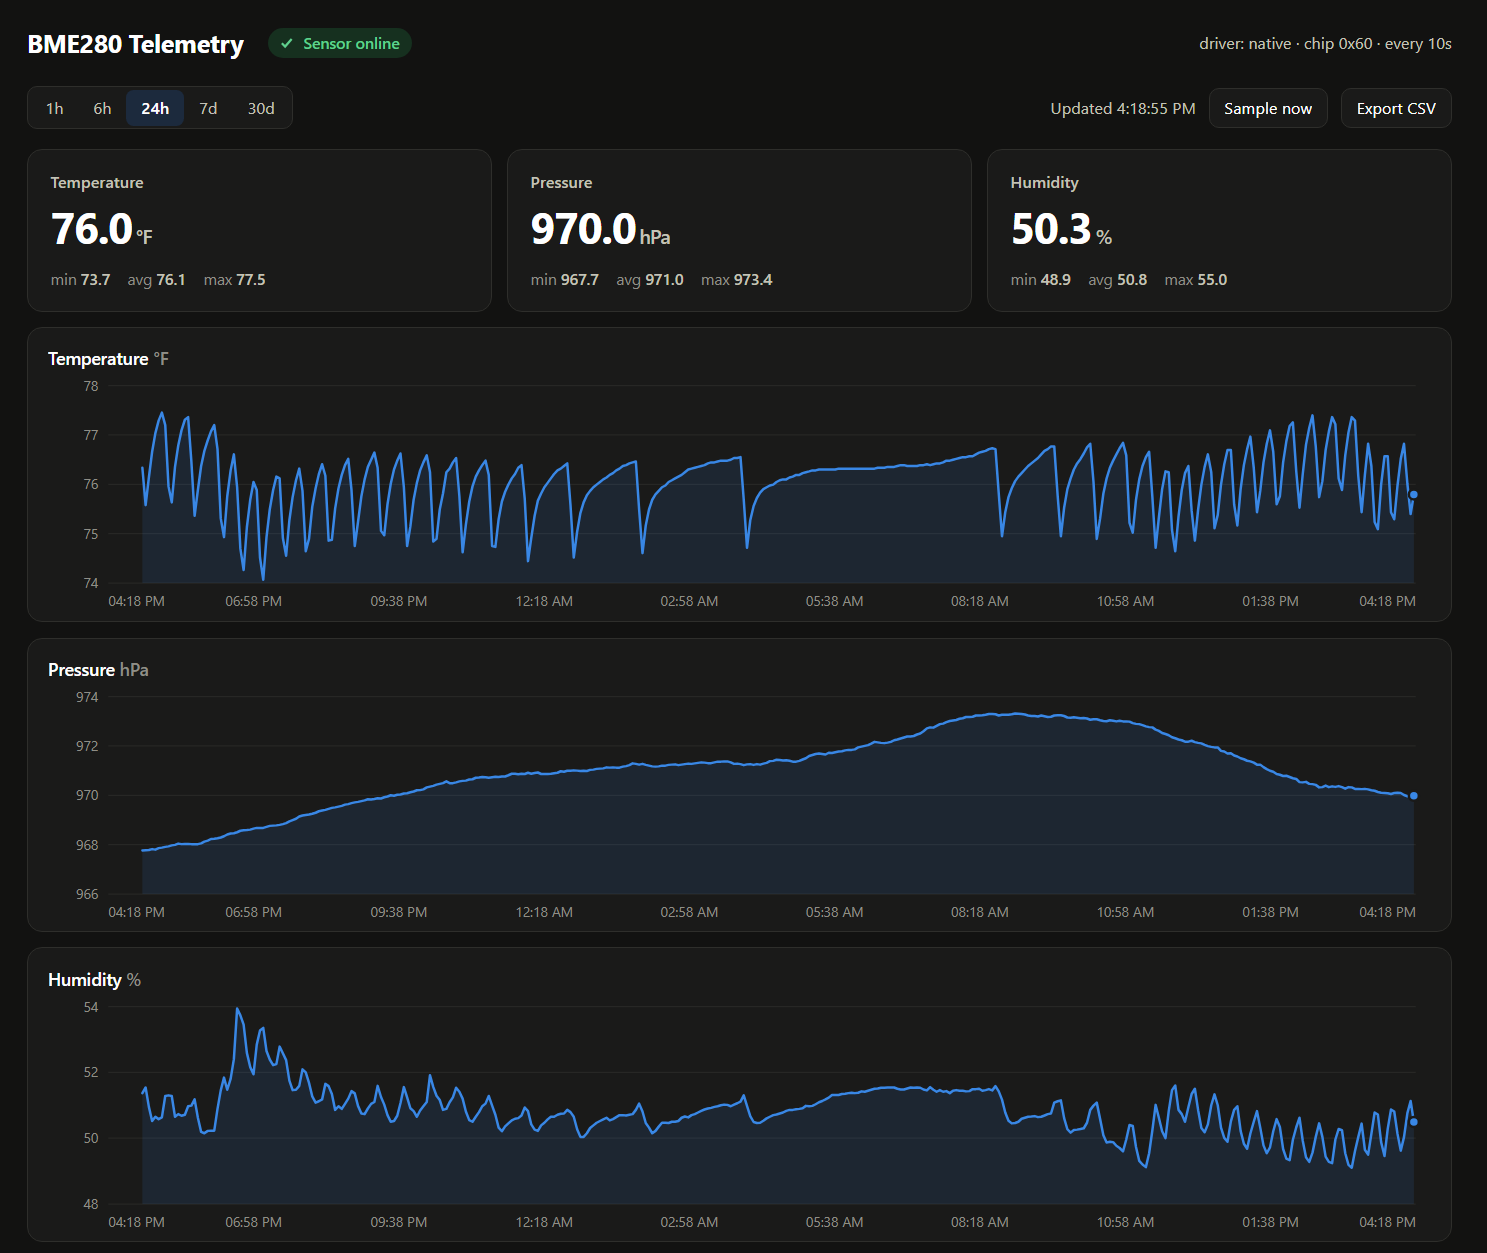
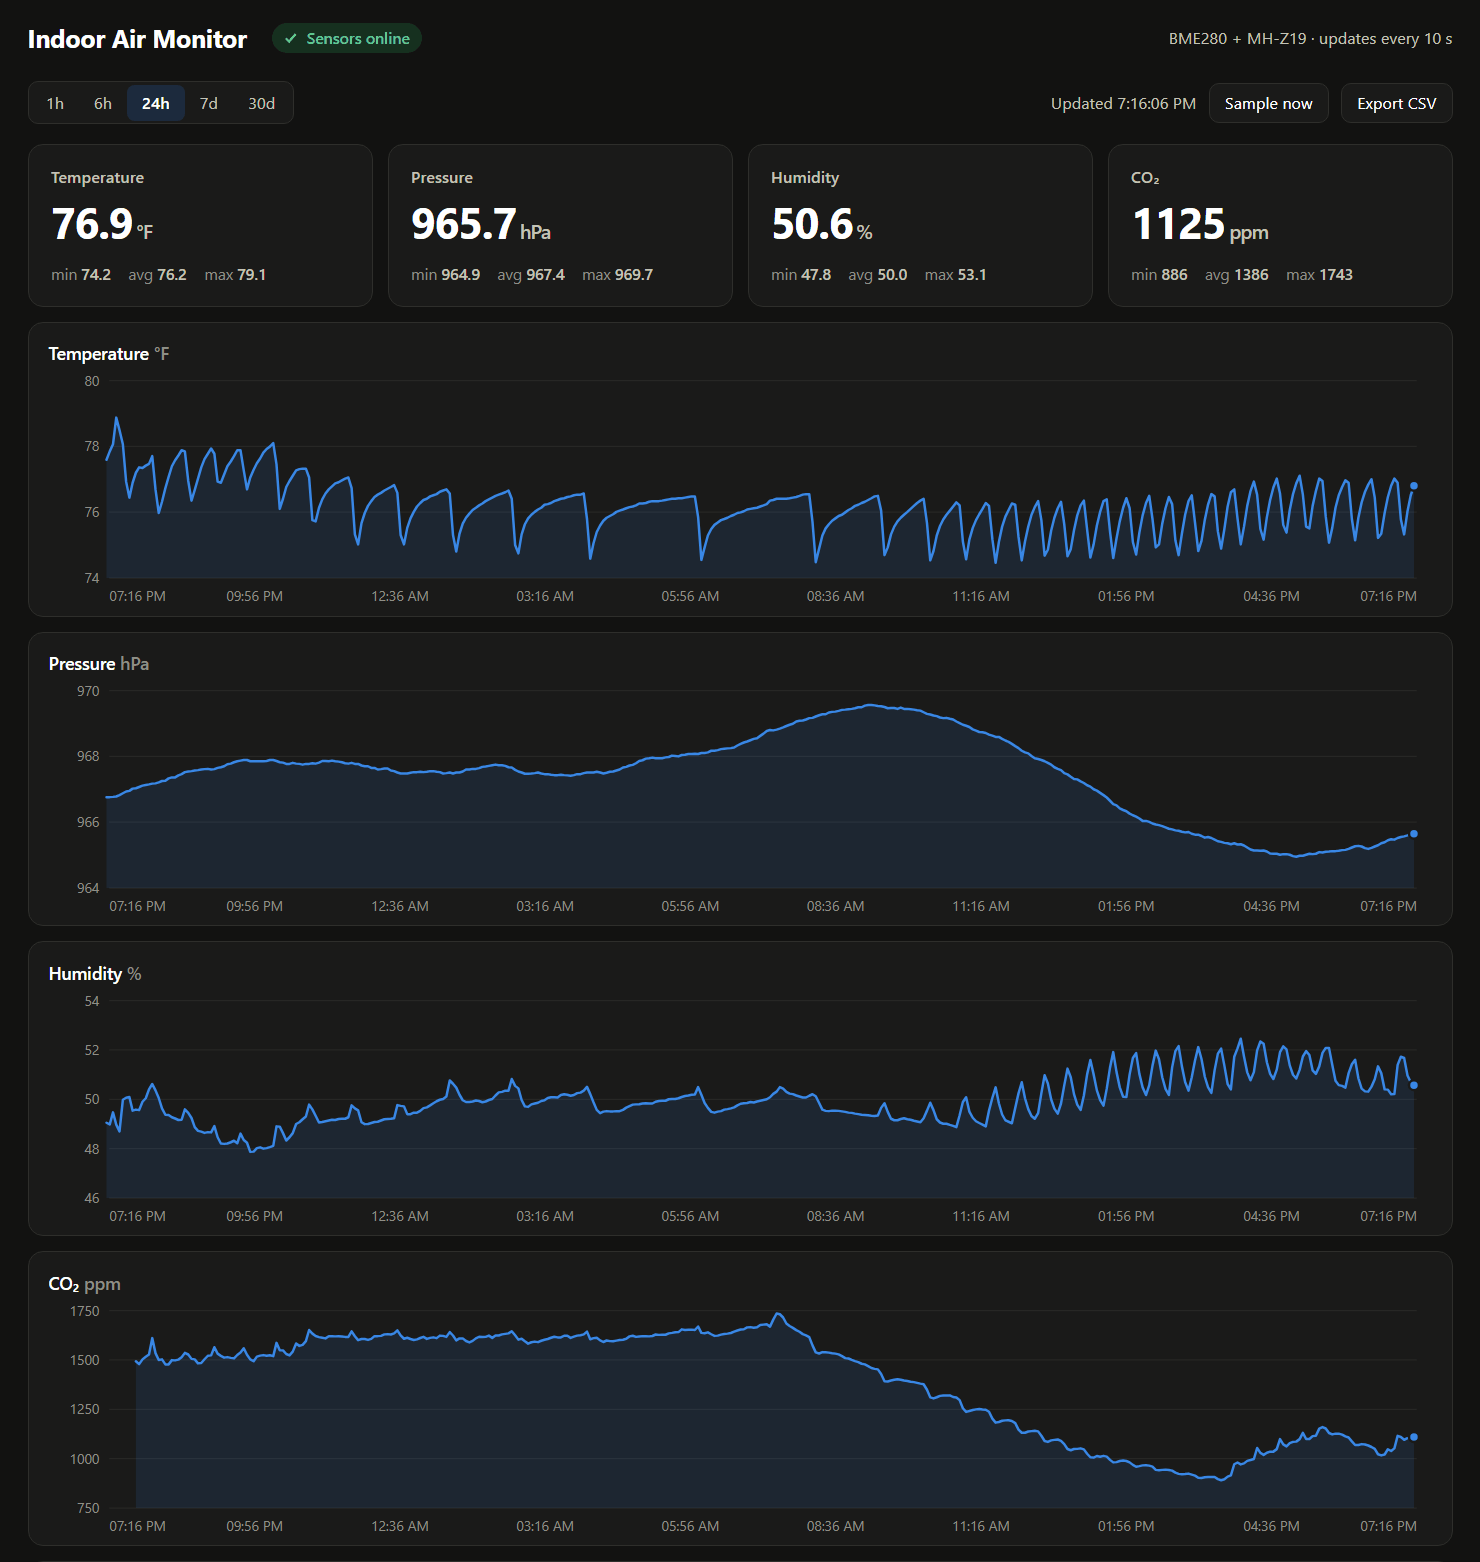
Update screenshot, hardware photo and README for the CO2 sensor

diff --git a/README.md b/README.md
@@ -2,9 +2,9 @@
 
 [![CI](https://github.com/AlexT01010100/pi-air-monitor/actions/workflows/ci.yml/badge.svg)](https://github.com/AlexT01010100/pi-air-monitor/actions/workflows/ci.yml)
 
-Raspberry Pi 5 + Adafruit BME280 (SPI) + MH-Z19 CO₂ sensor (UART) → FastAPI service → Postgres → web dashboard.
+Raspberry Pi 5 + BME280 (SPI) and MH-Z19 CO₂ (UART) sensors → C drivers → FastAPI service → Postgres → web dashboard.
 
-![Live dashboard showing temperature, pressure and humidity from the sensor](docs/dashboard.png)
+![Live dashboard showing 24 hours of temperature, pressure, humidity and CO₂ readings](docs/dashboard.png)
 
 ```mermaid
 flowchart LR
@@ -32,7 +32,7 @@ mhz19_uart.c / mhz19.h    C driver (UART/termios, framing, checksum, timeouts)
 tests/                     C unit tests for both drivers (make test)
 service/
   app/driver.py            ctypes bindings + mock sensors
-  app/sampler.py           background loop: read sensor every N s → insert into Postgres
+  app/sampler.py           background loop: read both sensors every N s → insert into Postgres
   app/api.py               REST API
   app/static/index.html    dashboard (no external dependencies; works offline)
 docker-compose.yml         Postgres + API
@@ -91,7 +91,7 @@ BME_DRIVER=mock BME_CO2_DRIVER=mock uvicorn app.main:app --reload
 | GET  | `/api/readings/series?hours=24&points=300` | time-bucketed averages for charts |
 | GET  | `/api/readings/stats?hours=24` | min / max / avg / count |
 | GET  | `/api/readings.csv?hours=24` | CSV export |
-| POST | `/api/readings/sample` | read the sensor now and store it (503 on sensor error) |
+| POST | `/api/readings/sample` | read the sensors now and store the reading (503 if the BME280 fails) |
 
 All read endpoints accept `sensor_id` (default `BME_SENSOR_ID`).
 
@@ -130,7 +130,7 @@ Note: the test suite truncates the `readings` table, so point it at a separate d
 
 Every push and pull request runs [CI](.github/workflows/ci.yml):
 
-1. **C driver**: compiles with `-Werror` for x86_64 and aarch64 (Raspberry Pi) and runs the C unit tests.
+1. **C drivers**: compile with `-Werror` for x86_64 and aarch64 (Raspberry Pi) and run the C unit tests.
 2. **Service tests**: builds `libbme280.so` and `libmhz19.so` and runs pytest against Postgres, including the ctypes binding tests.
 3. **Docker image**: builds for `linux/arm64` and `linux/amd64`. On `main` (and `v*` tags) it is published to
    `ghcr.io/alext01010100/pi-air-monitor`; pull requests build it without publishing.
@@ -146,7 +146,7 @@ crontab -e                                                # or check every 15 mi
 
 ## Wiring
 
-<img src="docs/hardware.jpg" alt="Raspberry Pi 5 wired to an Adafruit BME280 breakout on a breadboard over SPI" width="360">
+<img src="docs/hardware.jpg" alt="Raspberry Pi 5 wired to an Adafruit BME280 breakout on a breadboard over SPI, and to an MH-Z19 CO₂ sensor over UART" width="420">
 
 SPI0 on the Pi 5 header, sensor CS on CE0 (`/dev/spidev0.0`). If you wired CS to
 CE1, set `BME_SPI_DEVICE=/dev/spidev0.1`.
@@ -177,9 +177,9 @@ reports the CO₂ error. Readings take about 3 minutes to settle after power-on.
 
 ## Behaviour notes
 
-- **Error recovery:** if a read fails, the C device is closed and initialised
-  again on the next tick, so unplugging and reconnecting the sensor recovers
-  without restarting the service.
+- **Error recovery:** if a read fails, that sensor's device is closed and
+  reopened on the next tick, so unplugging and reconnecting either sensor
+  recovers without restarting the service.
 - **Sanity checks:** readings outside the BME280's rated range (−40–85 °C,
   300–1100 hPa, 0–100 %) are rejected as bad SPI reads instead of being stored.
   CO₂ frames are checksum-verified, and values above 10 000 ppm are rejected.
@@ -188,7 +188,7 @@ reports the CO₂ error. Readings take about 3 minutes to settle after power-on.
 ## Contributing
 
 Issues and pull requests are welcome. You don't need the hardware: run the
-service with `BME_DRIVER=mock` and the test suite against any Postgres
+service with `BME_DRIVER=mock BME_CO2_DRIVER=mock` and the test suite against any Postgres
 (see [Tests](#tests)). For bug reports, please include your Pi model, OS
 version, and the output of `/api/health`.
 
